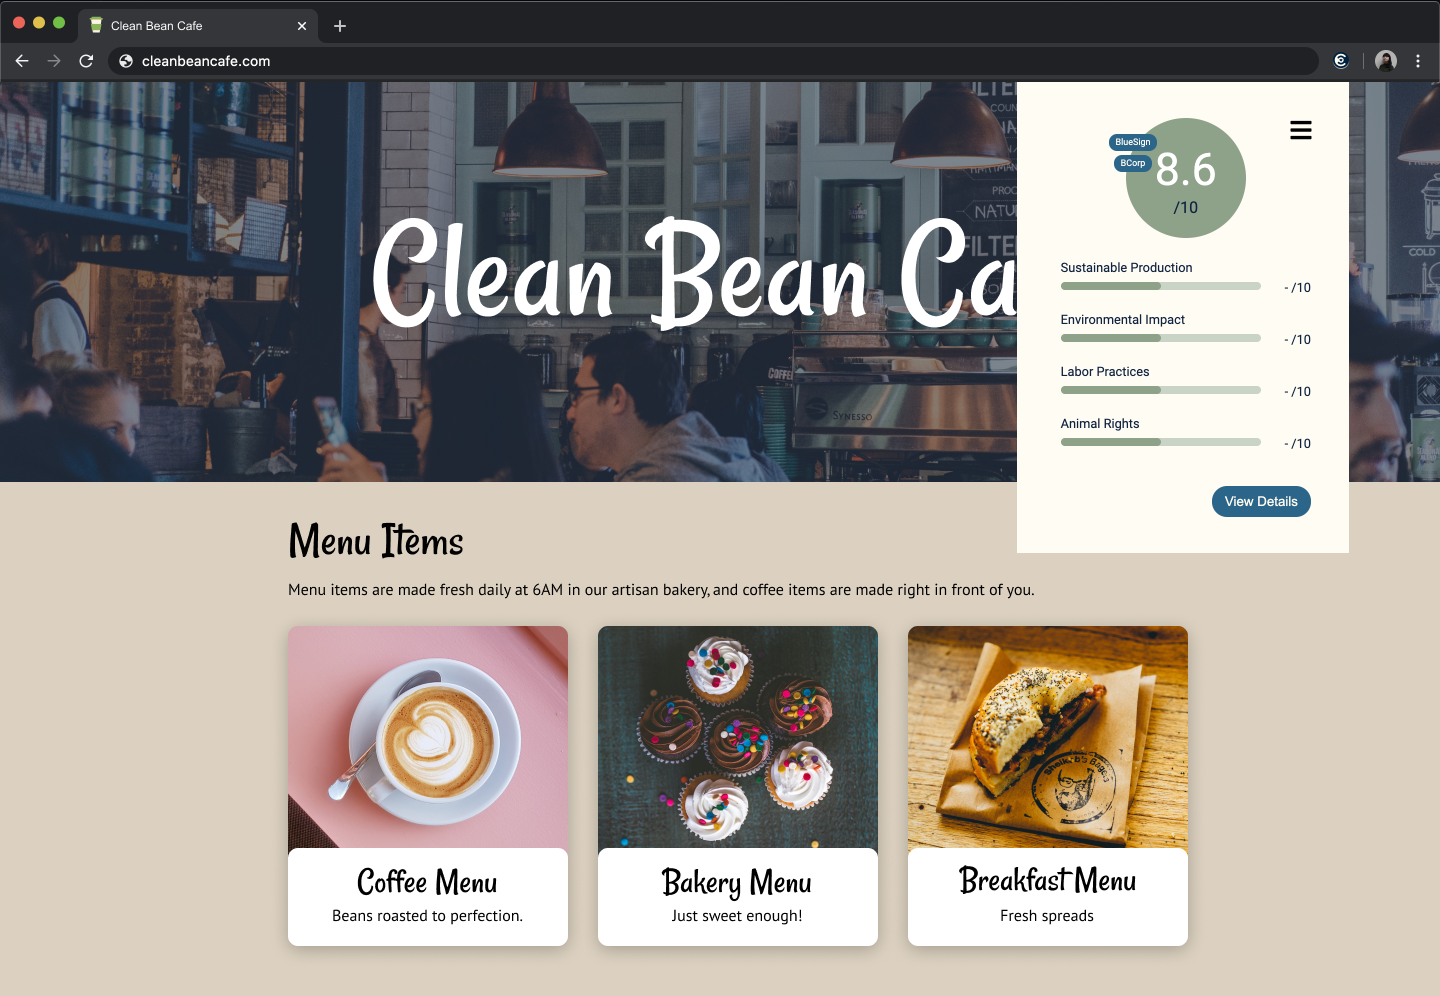
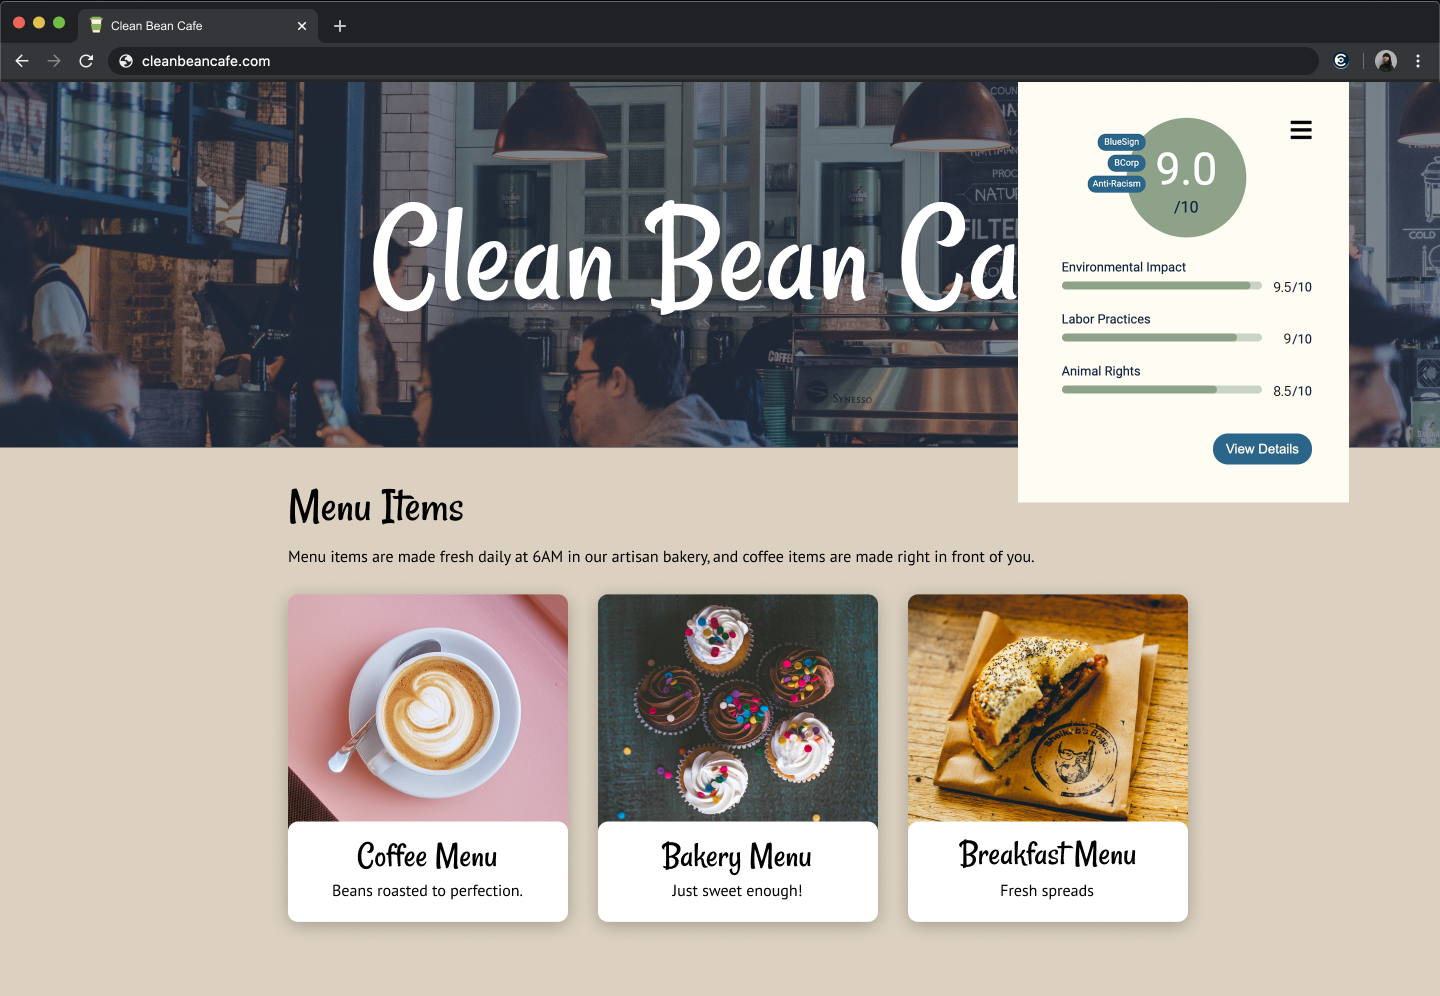
Updated website images
extension images were updated to show ratings, styling changed to accomodate

Changed region(s): [[0.0, 0.0622, 1.0, 0.9649], [0.75, 0.1245, 0.8438, 0.2179], [0.875, 0.3735, 0.9062, 0.4046]]

diff --git a/Website-and-Backend/src/main/resources/public/stylescripts/style.css b/Website-and-Backend/src/main/resources/public/stylescripts/style.css
@@ -440,7 +440,7 @@ button {
 
 #headerExtension {
     position: absolute;
-    width: 45%;
+    width: 41%;
     border-radius: 20px;
     margin-top: 30px;
 }
